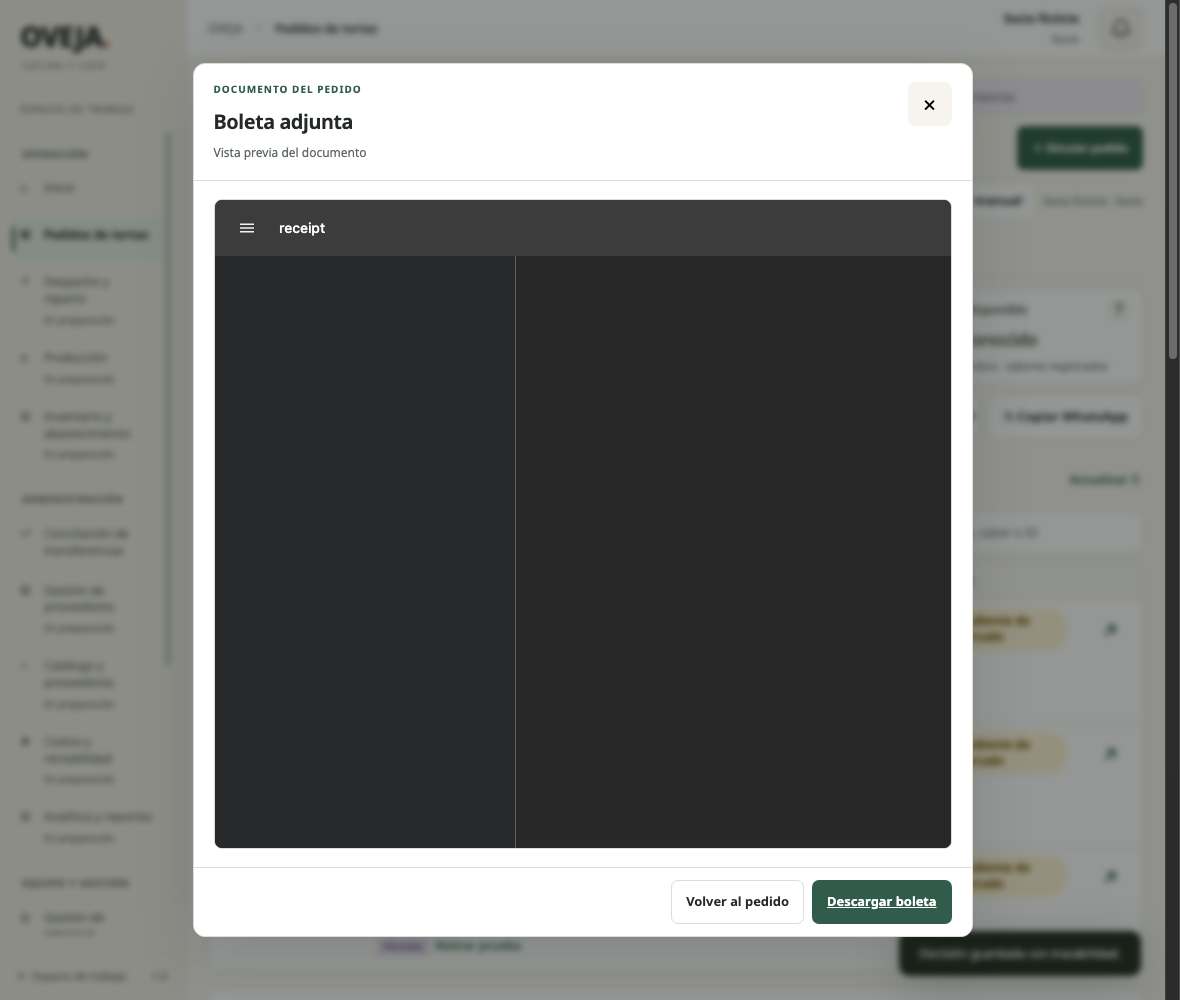
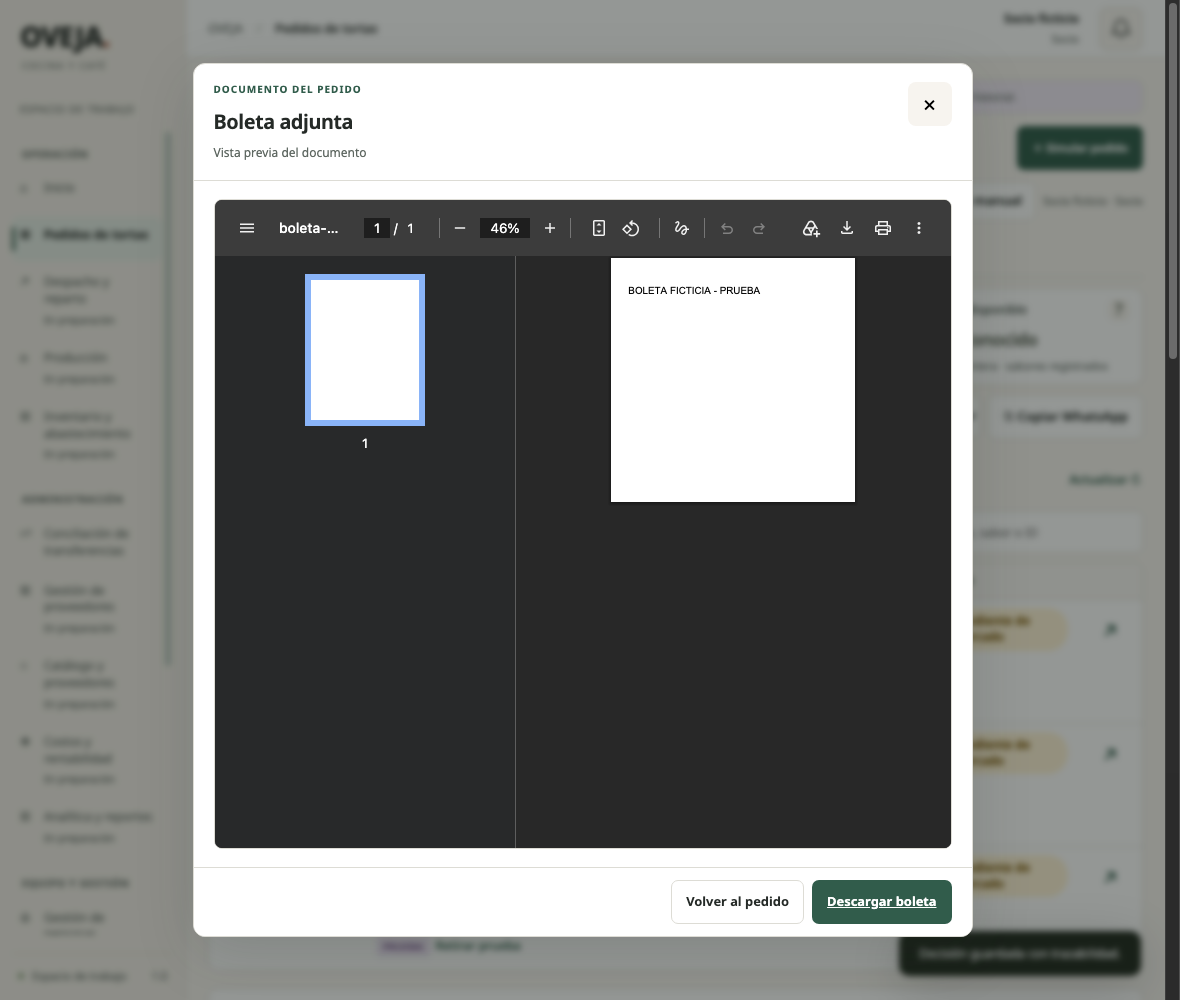
Use partner label in bot projection and record final acceptance checks

diff --git a/tests/test_server_integrations.py b/tests/test_server_integrations.py
@@ -57,6 +57,9 @@ class ServerIntegrationTests(unittest.TestCase):
         archive_selected(self.root/'erp-evidence',1,fingerprint,dict(id='100',mesa='Mesa ficticia',total=1000),dict(orderId=100,document=dict(line=[dict(productName='Producto ficticio',quantity=1)],secret='never-copy')),2)
         snapshot=self.root/'export/transferencias.json';export_snapshot(db,snapshot,{'sender-fixture':'Caja ficticia'})
         self.assertEqual(db.read_bytes(),before)
+        export_snapshot(db,snapshot,{'sender-fixture':'Esteban (dueño)'})
+        self.assertEqual(json.loads(snapshot.read_text())['rows'][0]['cajera'],'Esteban (socio)')
+        self.assertEqual(db.read_bytes(),before)
         raw=snapshot.read_text();self.assertNotIn('sender-fixture',raw);self.assertNotIn('never-copy',raw)
         data=read_transfers(snapshot,dict(start='2026-10-01',end='2026-10-31'))
         self.assertEqual(data['rows'][0]['selected_sale']['selected_option'],2)

diff --git a/scripts/export_bot_transfers.py b/scripts/export_bot_transfers.py
@@ -36,6 +36,7 @@ def export_snapshot(database,destination,names=None,evidence_root=None):
     rows=[]
     for value in values:
         row=dict(value);row['cajera']=names.get(row.pop('remitente'),'Sin identificar (histórico)')
+        if row['cajera']=='Esteban (dueño)':row['cajera']='Esteban (socio)'
         fingerprint=row.pop('huella');row['photo']=None;row['selected_sale']=None
         if isinstance(fingerprint,str) and len(fingerprint)==64 and all(c in '0123456789abcdef' for c in fingerprint):
             for extension,kind in [('jpg','image/jpeg'),('png','image/png'),('webp','image/webp')]:

diff --git a/docs/CHECKPOINT.md b/docs/CHECKPOINT.md
@@ -3,8 +3,9 @@
 - **HTTPS activo:** https://erp.loxby.cl. Diseño A. Acceso con las cuentas existentes; perfiles y datos privados protegidos por servidor. Localhost solo redirige al servidor, sin escribir datos.
 - **Migración completada y verificada:** SQLite, cuentas con sal/hash, historial y boleta. Respaldo privado anterior al corte; sin duplicados de fuente. El lector del Mac está deshabilitado; lector Linux activo, GET de comandas/ventas/anulaciones conocidas, sin escritura a Toteat.
 - **Recepción:** comentario abierto por defecto y cierre manual respetado en la sesión; Forzar agendamiento solo socios con motivo; venta inmediata presencial solo con venta cerrada/saldada recibida y comentario vacío/incompleto, confirmación e historial. Descuento saldado no se presenta como dinero recibido. Anular en ERP requiere confirmación; se conserva el historial. Cuatro pestañas con los mismos registros, sin duplicación.
+- Etiqueta solicitada del bot normalizada exactamente a **Esteban (socio)** en cada proyección, conservando identidad y configuración de Ovejita.
 - **Bot en producción:** proyección privada de revisiones, comanda elegida, cajera/monto, verificaciones, historial, cierres, estado del envío y salud. Archivo de futuras fotos/selecciones activado, con respaldo del código y SQLite de Ovejita y worker activo. Sin imágenes históricas inventadas. Foto y boleta con vista previa y descarga en el mismo diálogo.
-- **Verificación:** 203 pruebas Python locales; 201 de la versión previa aprobadas en Ubuntu y suite final pendiente al escribir este checkpoint. QA con fixtures 1180/320 de permisos, confirmaciones/cancelación, doble clic, cuatro pestañas/recarga, comentario, boleta/foto y venta exacta. Login anónimo del HTTPS real verificado en Chrome dedicado 1180/320, sin desbordes ni errores JS. Evidencia privada: `private/login-server-*.png`; servidor `/var/lib/oveja-erp/private/deployment-evidence.json`.
+- **Verificación:** 203 pruebas Python aprobadas en Mac y Ubuntu. Guard de presentación «Esteban (socio)» verificado con 6 pruebas adicionales del módulo de integración. QA con fixtures 1180/320 de permisos, confirmaciones/cancelación, doble clic, cuatro pestañas/recarga, comentario, boleta/foto y venta exacta. Login anónimo del HTTPS real verificado en Chrome dedicado 1180/320, sin desbordes ni errores JS. Evidencia privada: `private/login-server-*.png`; servidor `/var/lib/oveja-erp/private/deployment-evidence.json`.
 - **Respaldos activos:** ERP SQLite/boletas y archivo incremental de fotos/selecciones. Todos los servicios originales de Ovejita continúan activos. No se copiaron credenciales a GitHub ni se crearon cuentas reales nuevas.
 - **Pendiente concreto WEB/Mercat:** falta payload/contrato verificable de ASAP, programación y pago de una mesa abierta web. Los casos identificados web quedan en revisión, sin declarar entrega por pago, sin usar creación/ETA como fecha solicitada y sin autoagendar por datos de cliente. Conflictos entre modalidad y comentario requieren confirmación del socio. La muestra real disponible no traía esos campos. No afirmar integración web automática terminada.
 - **Panel anterior conservado:** información contrastada con la proyección; falta reemplazar sus acciones manuales de seguimiento y exportación CSV antes de retirarlo con paridad funcional. No se amplió el permiso de escritura a la base del bot, pues se pidió traer información.
